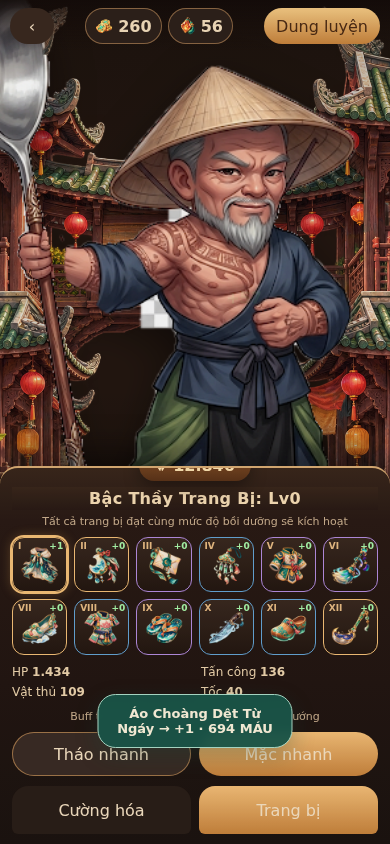
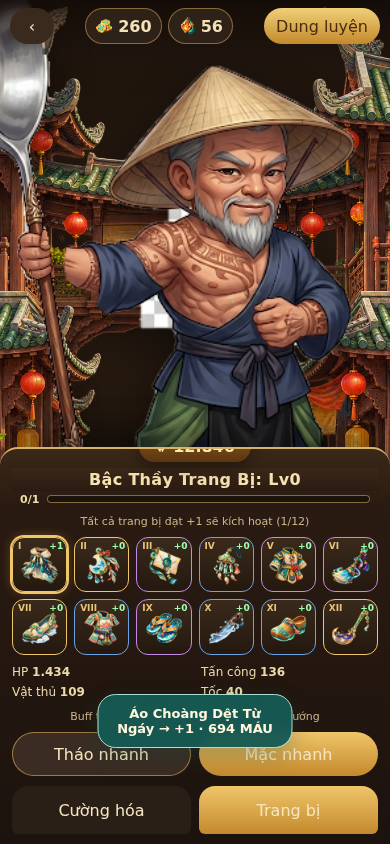
feat: activate Bậc Thầy Trang Bị team bonus
When all 12 slots share enhance N, add HP 40N / ATK 4N / DEF 3N / SPD 1N to the whole roster. Owner requested production.

diff --git a/src/ui/account-gear-runtime.js b/src/ui/account-gear-runtime.js
@@ -71,7 +71,11 @@
       <div class="hv-gear-panel">
         <div class="hv-gear-power" data-gear-power></div>
         <h2 class="hv-gear-title">Bậc Thầy Trang Bị: Lv<span data-gear-master>0</span></h2>
-        <p class="hv-gear-copy">Tất cả trang bị đạt cùng mức độ bồi dưỡng sẽ kích hoạt</p>
+        <div class="hv-gear-master-track">
+          <span data-gear-master-progress>0/12</span>
+          <i class="hv-gear-master-bar"><b data-gear-master-fill></b></i>
+        </div>
+        <p class="hv-gear-copy" data-gear-master-copy>Tất cả trang bị đạt cùng mức độ bồi dưỡng sẽ kích hoạt</p>
         <div class="hv-gear-slots">
           <button type="button" class="hv-gear-slot" data-gear-slot="I" aria-label="Nón"><b class="roman">I</b><img alt=""><i class="plus">+</i><small class="lvl" hidden></small></button>
           <button type="button" class="hv-gear-slot" data-gear-slot="II" aria-label="Đai"><b class="roman">II</b><img alt=""><i class="plus">+</i><small class="lvl" hidden></small></button>
@@ -196,7 +200,28 @@
   function renderBoard() {
     const gear = board();
     const master = accountGearMasterLevel(gear, P.inventory || []);
+    const progress = typeof accountGearMasterProgress === 'function'
+      ? accountGearMasterProgress(gear, P.inventory || [])
+      : { level: master, next: master + 1, ready: 0, need: 12, active: master > 0 };
+    const masterAdd = typeof accountGearMasterBonus === 'function'
+      ? accountGearMasterBonus(master)
+      : { hp: 0, atk: 0, def: 0, spd: 0 };
     root.querySelector('[data-gear-master]').textContent = String(master);
+    const progressLabel = root.querySelector('[data-gear-master-progress]');
+    if (progressLabel) {
+      progressLabel.textContent = progress.level + '/' + progress.next;
+    }
+    const fill = root.querySelector('[data-gear-master-fill]');
+    if (fill) {
+      const pct = progress.next ? Math.round((progress.level / progress.next) * 100) : 0;
+      fill.style.width = pct + '%';
+    }
+    const copy = root.querySelector('[data-gear-master-copy]');
+    if (copy) {
+      copy.textContent = progress.active
+        ? ('Đã kích hoạt · HP +' + masterAdd.hp + ' · Công +' + masterAdd.atk + ' · Thủ +' + masterAdd.def + ' · Tốc +' + masterAdd.spd)
+        : ('Tất cả trang bị đạt +' + progress.next + ' sẽ kích hoạt (' + progress.ready + '/' + progress.need + ')');
+    }
     fillChips();
     const power = typeof teamPower === 'function' ? teamPower() : 0;
     root.querySelector('[data-gear-power]').innerHTML = '<i class="hv-gear-power-ico"></i>' + power.toLocaleString('vi-VN');

diff --git a/src/ui/account-gear-board.css b/src/ui/account-gear-board.css
@@ -111,6 +111,10 @@
 }
 .hv-gear-power-ico{width:12px;height:12px;background:currentColor;clip-path:polygon(50% 0,62% 38%,100% 38%,58% 100%,50% 72%,42% 100%,0 38%,38% 38%);flex:0 0 12px}
 .hv-gear-title{margin:0;text-align:center;color:#f6e2b0;font-size:16px;font-weight:800;letter-spacing:.02em;flex-shrink:0;position:sticky;top:0;z-index:1;background:linear-gradient(180deg,#3a2818,#2a1b12);padding:2px 0}
+.hv-gear-master-track{display:flex;align-items:center;gap:8px;margin:2px 8px 4px;flex-shrink:0}
+.hv-gear-master-track span{flex:0 0 auto;color:#f0dcab;font-size:11px;font-weight:800;font-variant-numeric:tabular-nums}
+.hv-gear-master-bar{flex:1;height:8px;border-radius:999px;background:#1a120c;box-shadow:inset 0 0 0 1px #8a6a3c;overflow:hidden;display:block}
+.hv-gear-master-bar b{display:block;height:100%;width:0;background:linear-gradient(90deg,#f0d078,#c4892c);border-radius:999px}
 .hv-gear-copy{margin:4px 0 8px;text-align:center;color:#cbb48a;font-size:11px;line-height:1.4;flex-shrink:0}
 .hv-gear-slots{display:grid;grid-template-columns:repeat(6,minmax(0,1fr));gap:7px;flex-shrink:0}
 .hv-gear-slot{

diff --git a/AGENTS.md b/AGENTS.md
@@ -2,7 +2,7 @@
 
 Đọc `docs/LUNA-HANDOFF.md` trước khi sửa game. Tài liệu có bản đồ nguồn, pipeline asset, các lỗi đã gặp, cách kiểm tra và quy trình deploy.
 
-Bàn giao mới nhất 11/09/2026: Dung luyện (TKT-0008) trên cùng nhánh `work/l13-account-gear-20260910` với bảng 12 ô (TKT-0007). Chủ dự án yêu cầu đưa lên live (`luc-than.vercel.app`) sau khi Dung luyện vào nhánh. Trước đó: vào trận sau Bày trận (TKT-0006). Visual pass Bày trận đã bị từ chối. Lịch sử: `docs/L11-CONTINUATION-2026-09-08.md`. Build PASS; Safari/device vẫn NOT_RUN.
+Bàn giao mới nhất 11/09/2026: Bậc Thầy Trang Bị (TKT-0009) trên `work/l13-gear-master-20260911`. Trước đó Dung luyện + bảng 12 ô đã lên live `luc-than.vercel.app`. Visual pass Bày trận đã bị từ chối. Safari/device vẫn NOT_RUN.
 
 - **Được tái sử dụng code mẫu theo yêu cầu của anh.** Đọc `docs/HERMES-CODE-REUSE-GUIDE.md`: bản đồ 27 phương thức, dependency, lỗi cần sửa và quy trình port từ archive người dùng đã gửi. Quy tắc này thay chỉ dẫn cũ cấm toàn bộ source mẫu. Nối vào owner Lục Thần, ghi khác biệt và test; giữ identity/save/art/luật đã chốt. Repo chứa hướng dẫn; mã gốc chưa được đưa lên GitHub và chưa tích hợp runtime.
 - Runtime production được tạo bởi `scripts/build-static.mjs`. Sửa nguồn hoặc patch sinh ra runtime; không dùng chỉnh sửa riêng trong `dist/` làm kết quả bàn giao.

diff --git a/tickets/TKT-0009/ticket.md b/tickets/TKT-0009/ticket.md
@@ -1,0 +1,34 @@
+---
+id: TKT-0009
+title: Bậc Thầy Trang Bị grants team stats
+status: REVIEW
+phase: REFACTOR
+priority: P1
+created: 2026-09-11T08:00:00.000Z
+updated: 2026-09-11T08:20:00.000Z
+acceptance_ids: ["L13-M1","L13-M2","L13-M3","L13-M4"]
+required_gates: ["vibelab","tdd"]
+affected_paths: ["src/domain/equipment/account-board.mjs","src/ui/account-gear-runtime.js","src/ui/account-gear-board.css","scripts/qa-account-gear.mjs"]
+resource_locks: ["equipment-board"]
+---
+# TKT-0009 — Bậc Thầy Trang Bị kích hoạt
+
+Goal: Khi đủ 12 ô cùng mức cường hóa N ≥ 1, Bậc Thầy Lv N cộng HP/Công/Thủ/Tốc cho toàn đội. UI hiện tiến độ lên cấp kế và dòng buff khi đã kích hoạt.
+
+Non-goals: nan Trợ trận khác, đổi công thức/seed/reward rèn, bỏ 4 ô theo tướng, đổi salvage Dung luyện.
+
+## Acceptance
+
+- L13-M1: master 0 → `{ hp:0, atk:0, def:0, spd:0 }`
+- L13-M2: 12 ô cùng +3 → `{ hp:120, atk:12, def:9, spd:3 }` nằm trong `accountGearBonus`
+- L13-M3: tháo 1 ô → master 0, mất buff Bậc Thầy
+- L13-M4: UI có thanh tiến độ và copy **Đã kích hoạt**; Chrome 390×844 hiện Lv 1 sau khi 12 ô +1
+
+## Result
+
+- RED → GREEN: 14/14 `tests/account-gear-board.test.mjs`
+- Chrome 390×844: Lv1 **Đã kích hoạt · HP +40 · Công +4 · Thủ +3 · Tốc +1**, 0 app errors
+- Safari / device: NOT_RUN
+- Evidence: `docs/qa/L13-ACCOUNT-GEAR/`
+
+Builder moves this ticket to REVIEW. Do not mark MERGED/DONE.

diff --git a/docs/HANDOFF-2026-09-09.md b/docs/HANDOFF-2026-09-09.md
@@ -1,3 +1,12 @@
+## 11/09/2026 — Bậc Thầy Trang Bị (TKT-0009)
+
+Nhánh `work/l13-gear-master-20260911` từ main `4115785`. Khi đủ 12 ô cùng +N ≥ 1, Bậc Thầy cộng chỉ số toàn đội (40/4/3/1 mỗi cấp). Thanh hiện N / N+1. Không đổi rèn/Dung luyện/nan khác.
+
+- RED: thiếu `accountGearMasterBonus`. GREEN: 14/14 `tests/account-gear-board.test.mjs`.
+- Chrome 390×844: 12 ô +1 → Lv1, copy **Đã kích hoạt · HP +40 · Công +4 · Thủ +3 · Tốc +1**. Safari NOT_RUN.
+
+Evidence: [L13-ACCOUNT-GEAR](qa/L13-ACCOUNT-GEAR/evidence.json).
+
 ## 11/09/2026 — Dung luyện (TKT-0008)
 
 Cùng nhánh `work/l13-account-gear-20260910` với bảng 12 ô. Nút Dung luyện mở màn riêng (tab Dung luyện / Cường hóa). Nấu đồ thừa → Tinh Lực theo salvage hiện có; không nấu món đang mặc hoặc khóa. Chủ dự án yêu cầu merge lên main/live sau lát cắt này.

diff --git a/docs/vibe-changelog.md b/docs/vibe-changelog.md
@@ -1,3 +1,7 @@
+## 11/09/2026 — Bậc Thầy Trang Bị kích hoạt (TKT-0009)
+
+Nhánh `work/l13-gear-master-20260911`. 12 ô cùng +N (N≥1) cộng HP 40N / Công 4N / Thủ 3N / Tốc 1N cho toàn đội. Thanh 0/1 → 15/15. 14/14 tests; Chrome 390×844 Lv1 **Đã kích hoạt**; Safari NOT_RUN.
+
 ## 11/09/2026 — Dung luyện trên bảng trang bị (TKT-0008)
 
 Nhánh `work/l13-account-gear-20260910`. Nút Dung luyện mở màn riêng: tab Dung luyện nấu đồ thừa lấy Tinh Lực (b5/a8/s12/ss18/ssr28 + lvl×2), tab Cường hóa cường hóa từ túi. Không nấu món đang mặc (P.gear / P.equip) hay khóa. 12/12 tests; Chrome 390×844 toast rỗng + nấu +5 Tinh Lực; Safari NOT_RUN.
